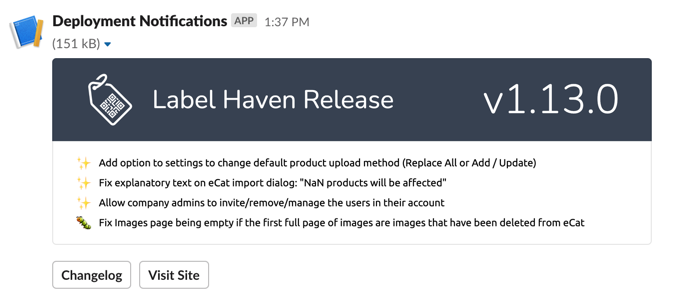
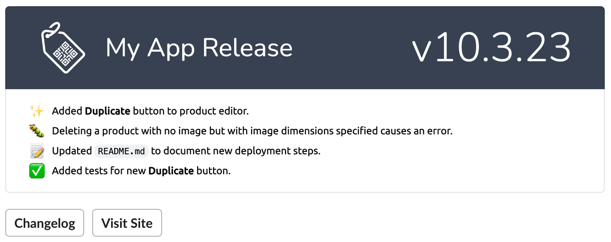
Updated README.md

diff --git a/README.md b/README.md
@@ -1,5 +1,7 @@
 # Deployed
 
+**Deployed** is an opinionated deployment notification generator for Laravel applications.
+
 ## Installation
 
 You can install the package via composer:
@@ -39,6 +41,16 @@ return [
 ];
 ```
 
+You'll also want to add a `version` field to your `config/app.php` file. This is how Deployed obtains the version number.
+
+```php
+[
+    'name' => env('APP_NAME'),
+    
+    'version' => '1.0.0'
+]
+```
+
 Finally, add the slack webhook to your `.env` file
 
 ```dotenv
@@ -47,13 +59,27 @@ DEPLOYED_SLACK_WEBHOOK=https://hooks.slack.com/services/xxx/xxx/xxx
 
 ## Usage
 
-Run this command after a successful deploy to send a beautiful slack notification with a changelog:
+Run this command after a successful deploy to send a beautiful slack notification with a changelog.
 
 ```php
 php artisan deployed --notify
 ```
 
-![Screenshot](.github/screenshot.png)
+Deployed will parse the `CHANGELOG.md` in the root of your application. Each version is expected to begin with an h1 and contain a list of changes. For each change in the list, put the type (feature/bug/etc.) in bold at the beginning of the line. Here is an example of a changelog entry, and the resulting notification:
+
+```md
+### Version 10.3.23
+> Released 09/10/2021
+
+- **FEATURE:** Added **Duplicate** button to product editor.
+- **BUG:** Deleting a product with no image but with image dimensions specified causes an error.
+- **DOCS:** Updated `README.md` to document new deployment steps.
+- **TESTS:** Added tests for new **Duplicate** button.
+
+...
+```
+
+![screenshot](.github/screenshot.png)
 
 ## Testing
 
